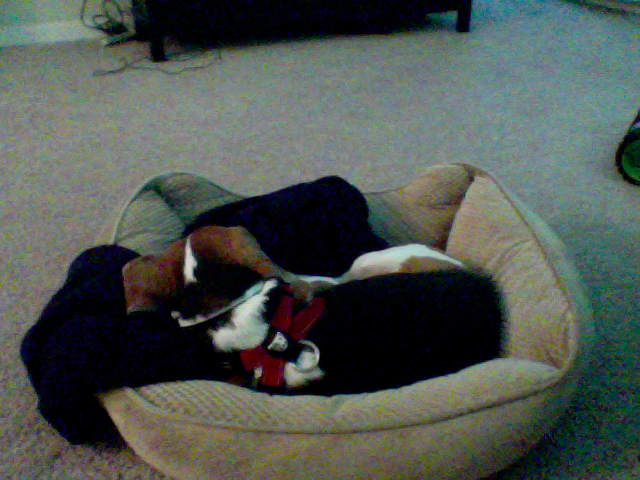
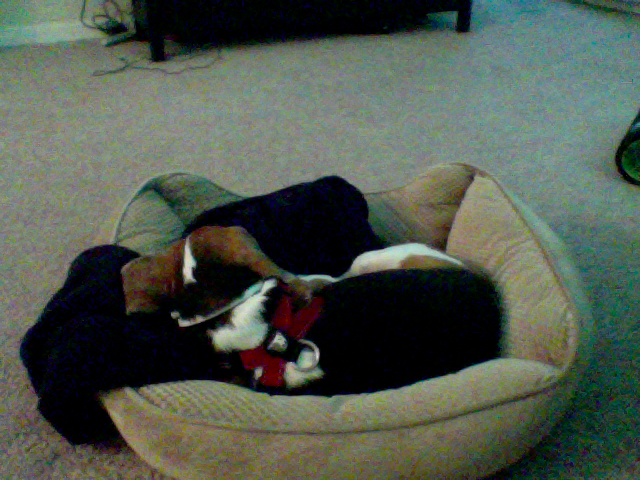
update at Month05Day13Time10:38

diff --git a/index.html b/index.html
@@ -39,8 +39,8 @@
       <!-- Example row of columns -->
       <div class="row">
         <div class="col-md-4">
-	<p>This picture was updated at Month05Day13Time10:37</p>
-		<img src="7_pic.png" />
+	<p>This picture was updated at Month05Day13Time10:38</p>
+		<img src="6_pic.png" />
         </div>
       </div>
 
